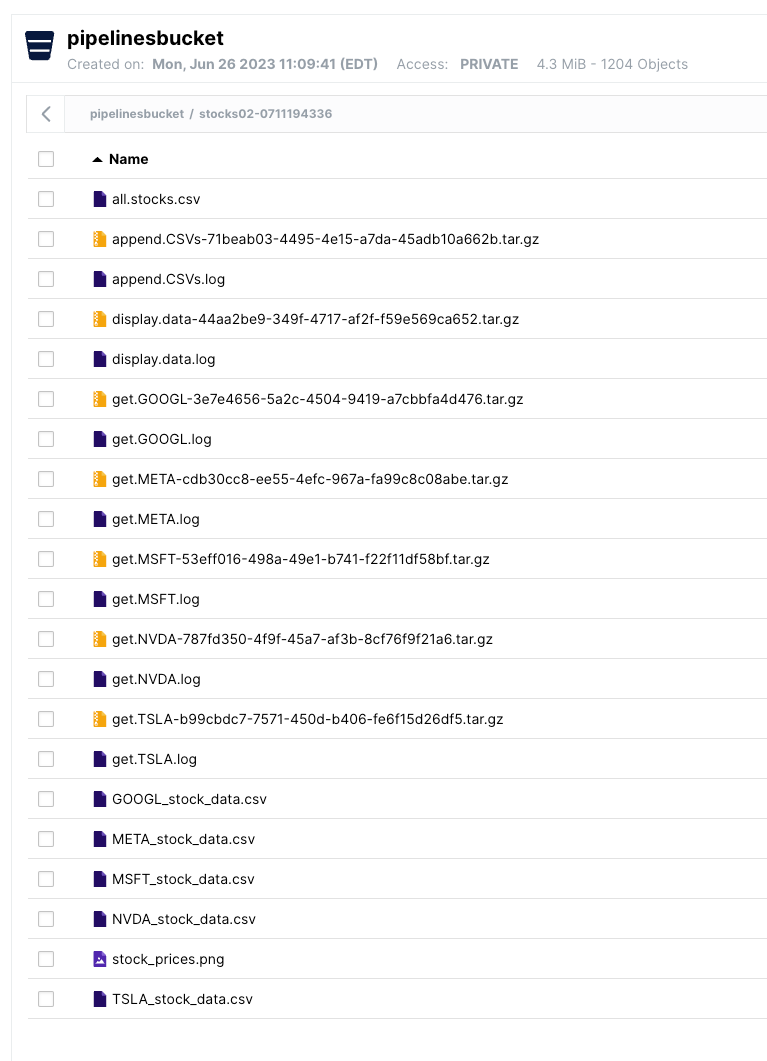
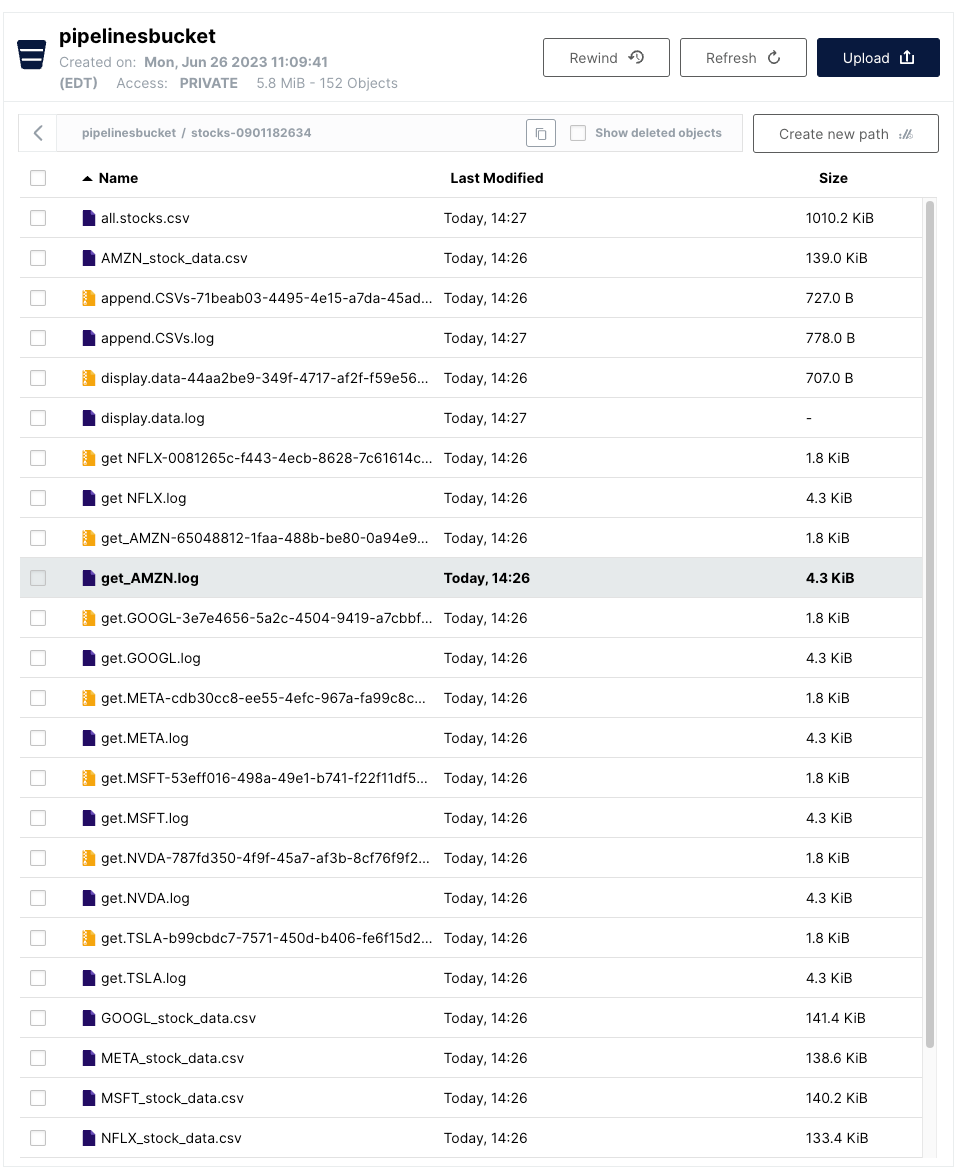
more screenshots and better instructions

diff --git a/README.md b/README.md
@@ -13,13 +13,29 @@ Clone the project into your RHODS environment.
 cd ~
 git clone https://github.com/erwangranger/DS-Pipelines-Samples.git
 cd ~/DS-Pipelines-Samples/stocks
+git checkout morecomplex
 ```
 
+Open the file called `stocks.pipeline` in the `stocks` directory.
 
 Results should look like:
 
 ![](stocks/pipeline.view.png)
 
+Execute the pipeline, and keep the default name.
+
 And the results of a run in Object Storage will look like:
 
 ![](stocks/object.storage.view.png)
+
+The run the RHODS Dashboard looks like:
+
+![](stocks/pipelinerun.png)
+
+View in the OpenShift console:
+
+![](stocks/pipelinerunview.png)
+
+Pod View:
+
+![](stocks/podview.png)
